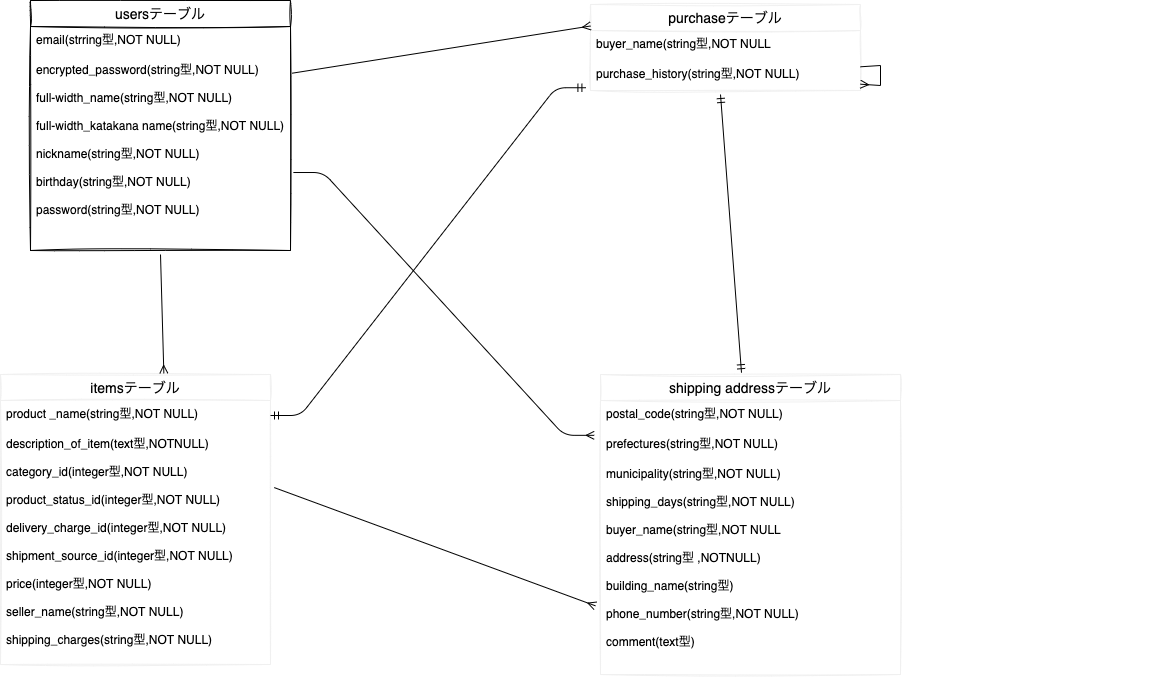
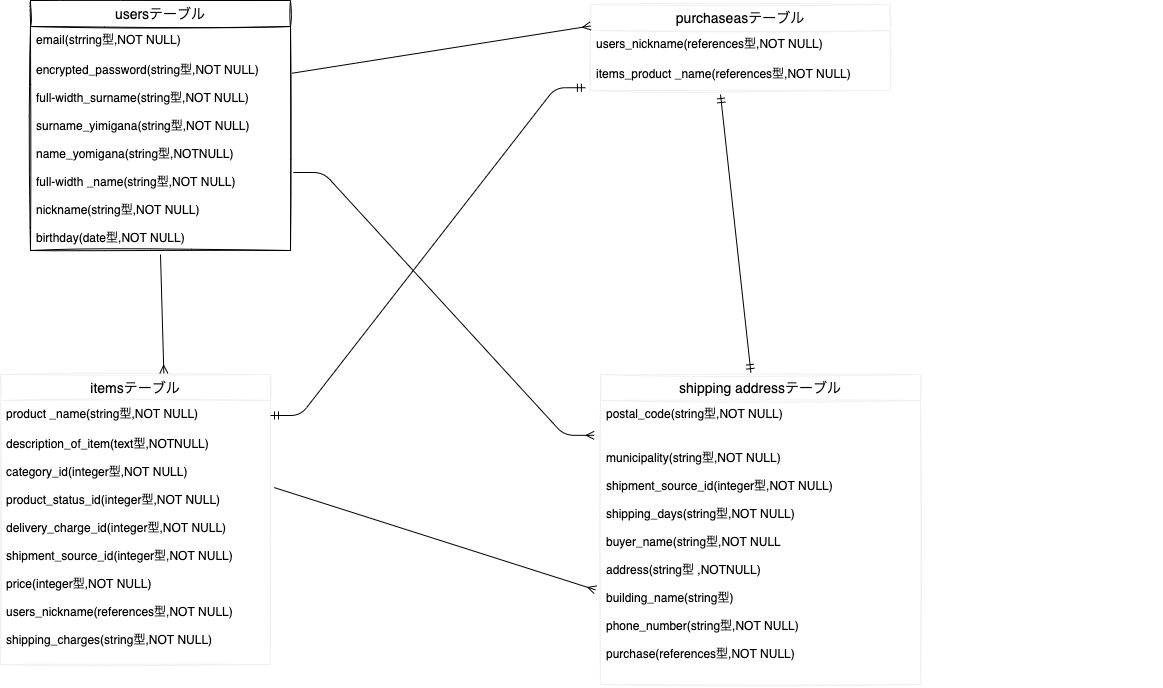
データベース修正：修正差分

diff --git a/README.md b/README.md
@@ -27,7 +27,7 @@
 |product_status_id      |integer   |null:false                   |
 |shipment_source_id     |integer   |null:false                   |
 |price                  |integer   |null:false                   |
-|nickname               |references|null:false, foreign_key: true|
+|users_nickname         |references|null:false, foreign_key: true|
 |shipping_charge_id     |integer   |null:false                   |
 
 ### Association
@@ -40,9 +40,8 @@
 
 |Column                 |Type      |Options                      |
 |-----------------------|----------|-----------------------------|
-|nickname               |references|null:false, foreign_key: true|
-|product_name           |references|null:false, foreign_key: true|
-
+|users_nickname         |references|null:false, foreign_key: true|
+|users_nickname         |references|null:false, foreign_key: true|
 ### Association
 
 - belongs_to :user
@@ -52,15 +51,17 @@
 
 ## shipping_addressテーブル
 
-|Column                 |Type   |Options                 |
-|-----------------------|-------|------------------------|
-|postal_code            |string |null:false              |
-|shipment_source_id     |integer|null:false              |
-|municipality           |string |null:false              |
-|shipping_days          |string |null:false              |
-|address                |string |null:false              |
-|building_name          |string |null                    |
-|phone_number           |string |null:false              |
+|Column                 |Type      |Options                      |
+|-----------------------|----------|-----------------------------|
+|postal_code            |string    |null:false                   |
+|shipment_source_id     |integer   |null:false                   |
+|municipality           |string    |null:false                   |
+|shipping_days          |string    |null:false                   |
+|address                |string    |null:false                   |
+|building_name          |string    |                             |
+|phone_number           |string    |null:false                   |
+|purchase               |references|null:false, foreign_key: true|
+
 
 ### Association
 
